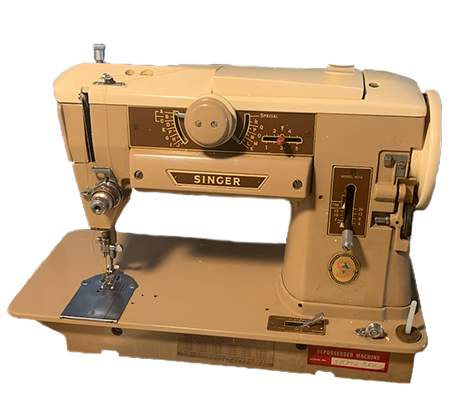
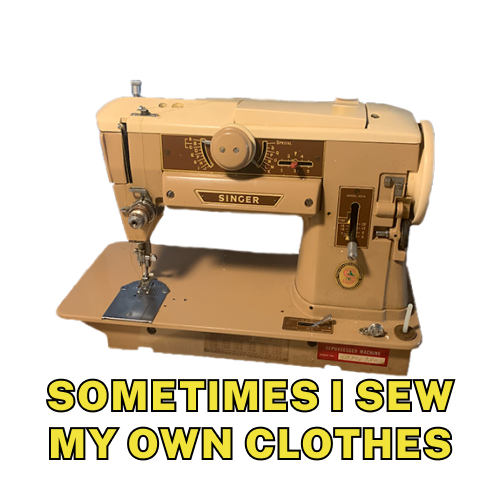
updated stickers

diff --git a/src/constants/stickers.ts b/src/constants/stickers.ts
@@ -5,31 +5,27 @@ export type StickerData = {
 
 export const STICKER_DATA: StickerData[] = [
   {
-    src: '/About/CA.png',
+    src: '/About/California.png',
     alt: 'California State Magnet',
   },
   {
-    src: '/About/sake.gif',
+    src: '/About/sake.png',
     alt: 'bottle of sake',
   },
   {
-    src: '/About/miami.png',
+    src: '/About/rhom.png',
     alt: 'Real Housewives of Miami',
-  },
-  {
-    src: '/About/cookie.gif',
-    alt: 'cookie',
   },
   {
     src: '/About/sewing.png',
     alt: 'Sewing Machine',
   },
   {
-    src: '/About/catpeach.png',
+    src: '/About/peach.png',
     alt: 'cat peach mario cart character',
   },
   {
-    src: '/About/travelme.png',
+    src: '/About/travel.png',
     alt: 'Travel Me',
   },
 ];

diff --git a/src/pages/about.tsx b/src/pages/about.tsx
@@ -53,7 +53,7 @@ function AboutLinkButton({ href, text, belowSm }: AboutLinkButtonProps) {
 
 const aboutLinks = [
   {
-    text: 'Download My Resume',
+    text: 'View My Resume',
     href: '/CaseyBradfordResume.pdf',
   },
   {
